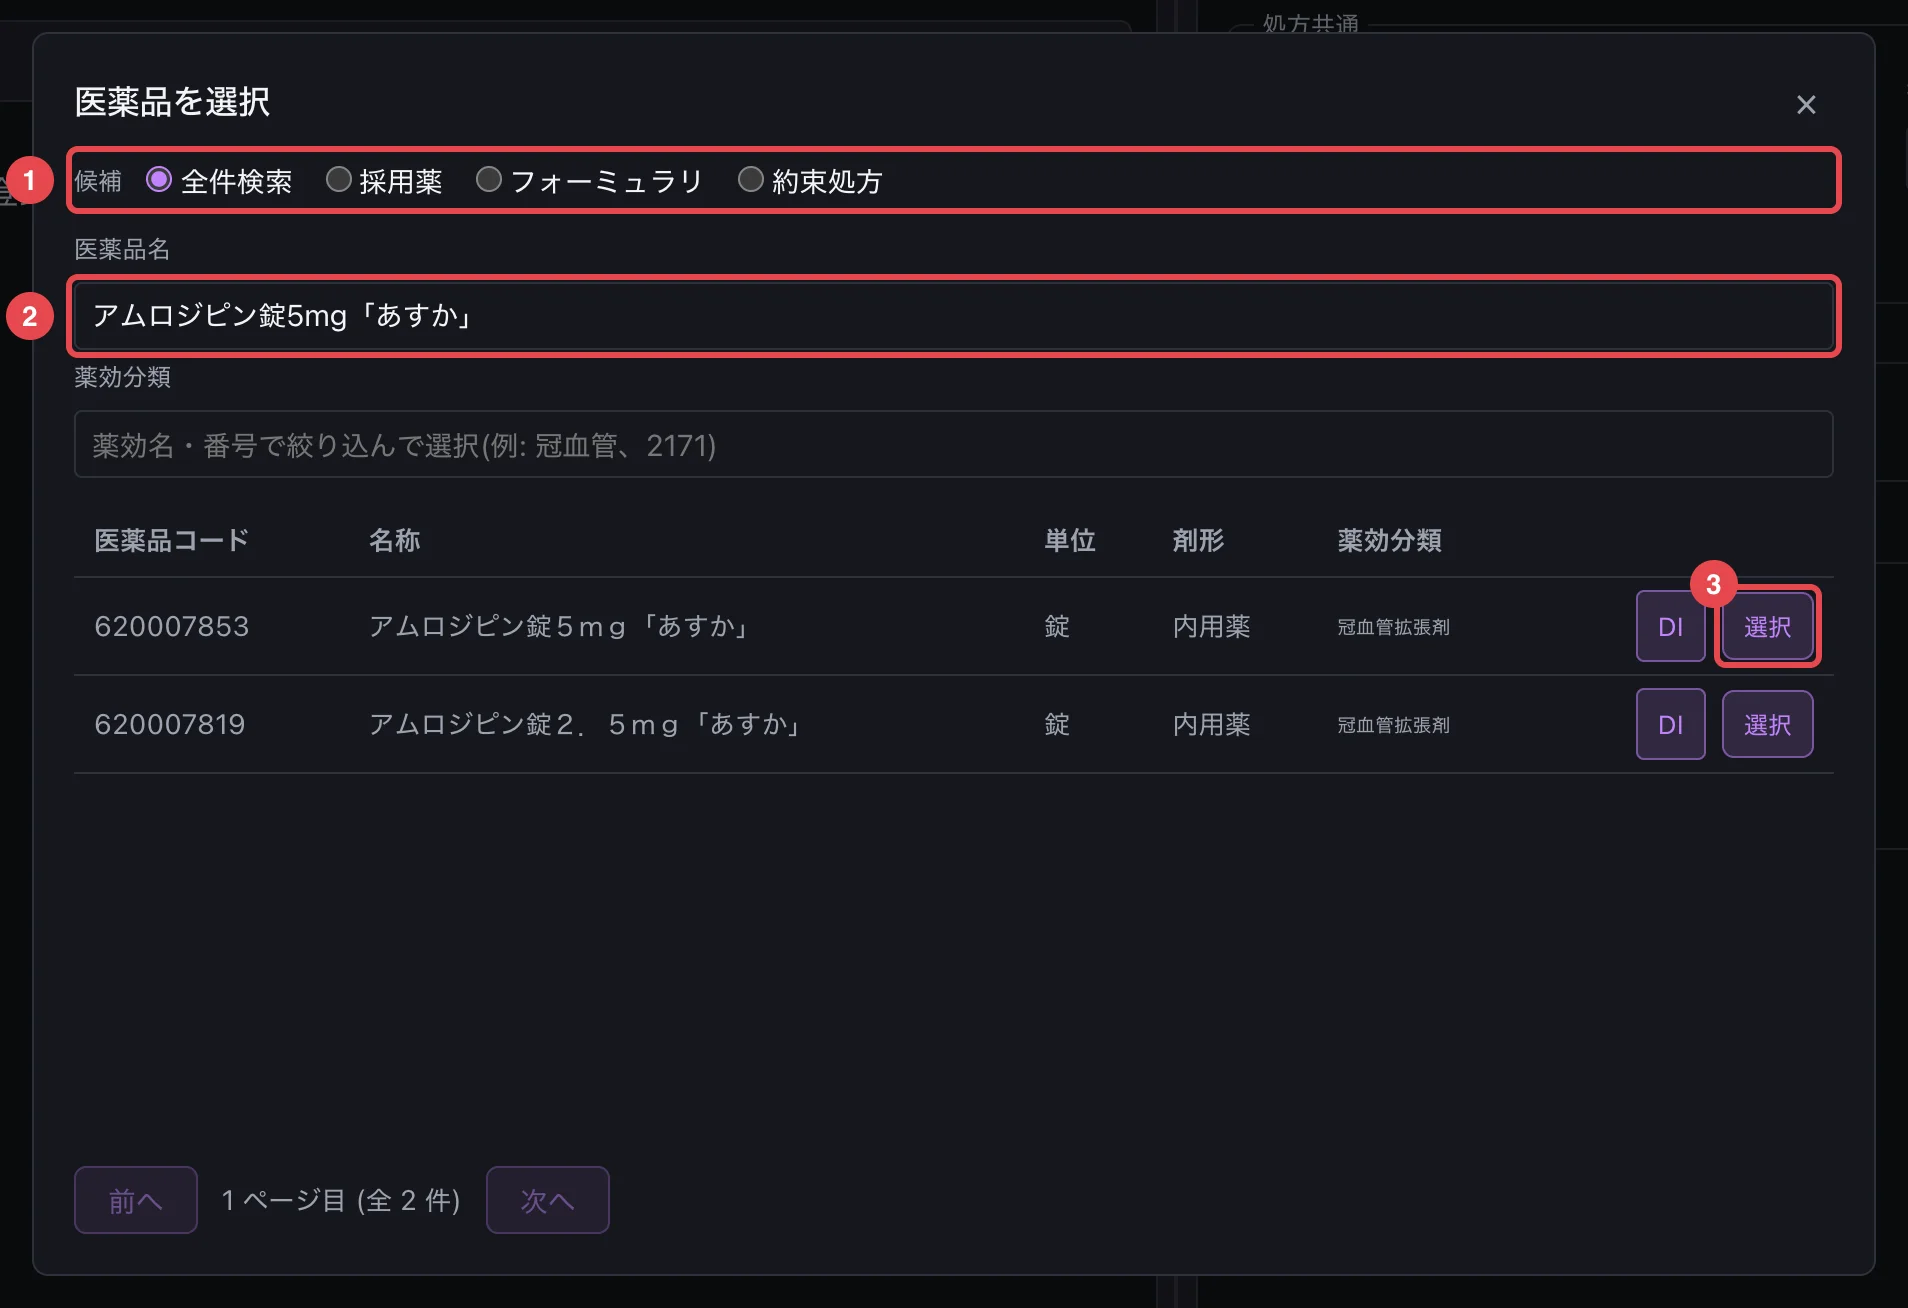
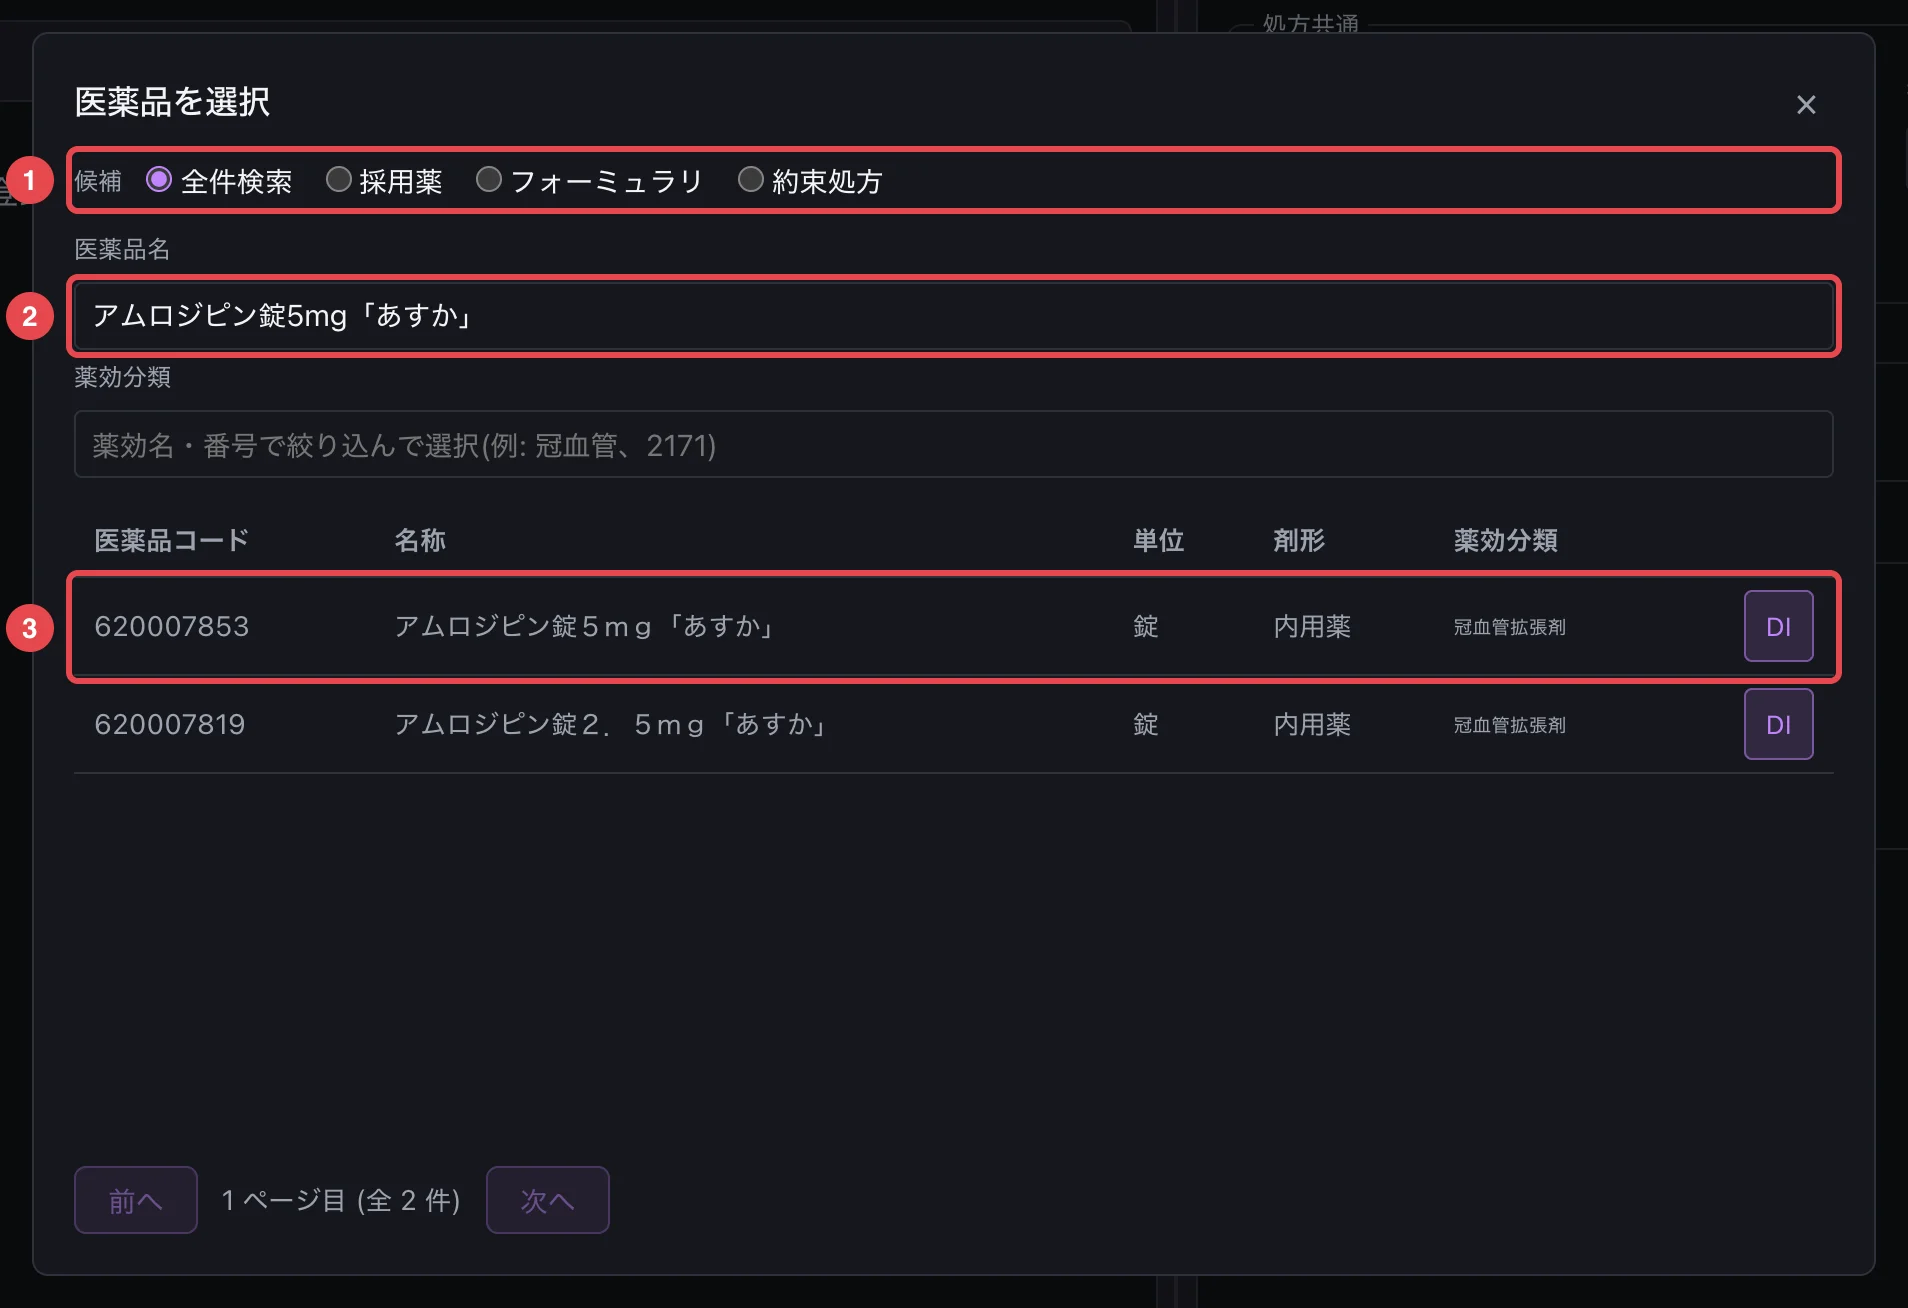
docs: 処方の医薬品と用法を行クリックで選ぶ手順に修正

Changed region(s): [[0.0, 0.3976, 0.9895, 0.581]]

diff --git a/docs/manual/prescription.md b/docs/manual/prescription.md
@@ -45,7 +45,7 @@ RP の医薬品の行にある薬のアイコン(「医薬品を選択」)を押
     | 約束処方 | あらかじめ登録した組み合わせ(軟膏の混合など) |
 
 2. 「医薬品名」に名前の一部を入れます。かなと全角・半角の違いは区別しません。「薬効分類」で絞り込むこともできます。
-3. 使う医薬品の行の「選択」を押します。
+3. 使う医薬品の行を押します。
 
 外来の院外処方では、「処方名」で「銘柄」と「一般名」を選べます。「一般名」を選ぶと一般名処方になります。
 
@@ -65,7 +65,7 @@ RP の医薬品の行にある薬のアイコン(「医薬品を選択」)を押
 ![用法を選択](img/prescription/05-usage.webp){ .screen width="714" }
 
 1. 「用法名」に用法の一部を入れます。選んだ医薬品の剤形に合わせて、区分の絞り込みが初めから入っています。
-2. 使う用法の行の「選択」を押します。
+2. 使う用法の行を押します。
 
 ## 日数を入れる
 
